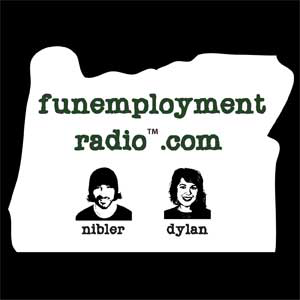
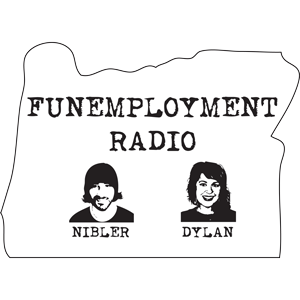
Updated FER images

diff --git a/app/routes/index.js b/app/routes/index.js
@@ -9,7 +9,7 @@ export default Ember.Route.extend({
 
     return Ember.$.ajax( host + "/")
       .then(function(data) {
-        return $(data).find("#jekyll-content").html();
+        return Ember.$(data).find("#jekyll-content").html();
     });
   },
 
